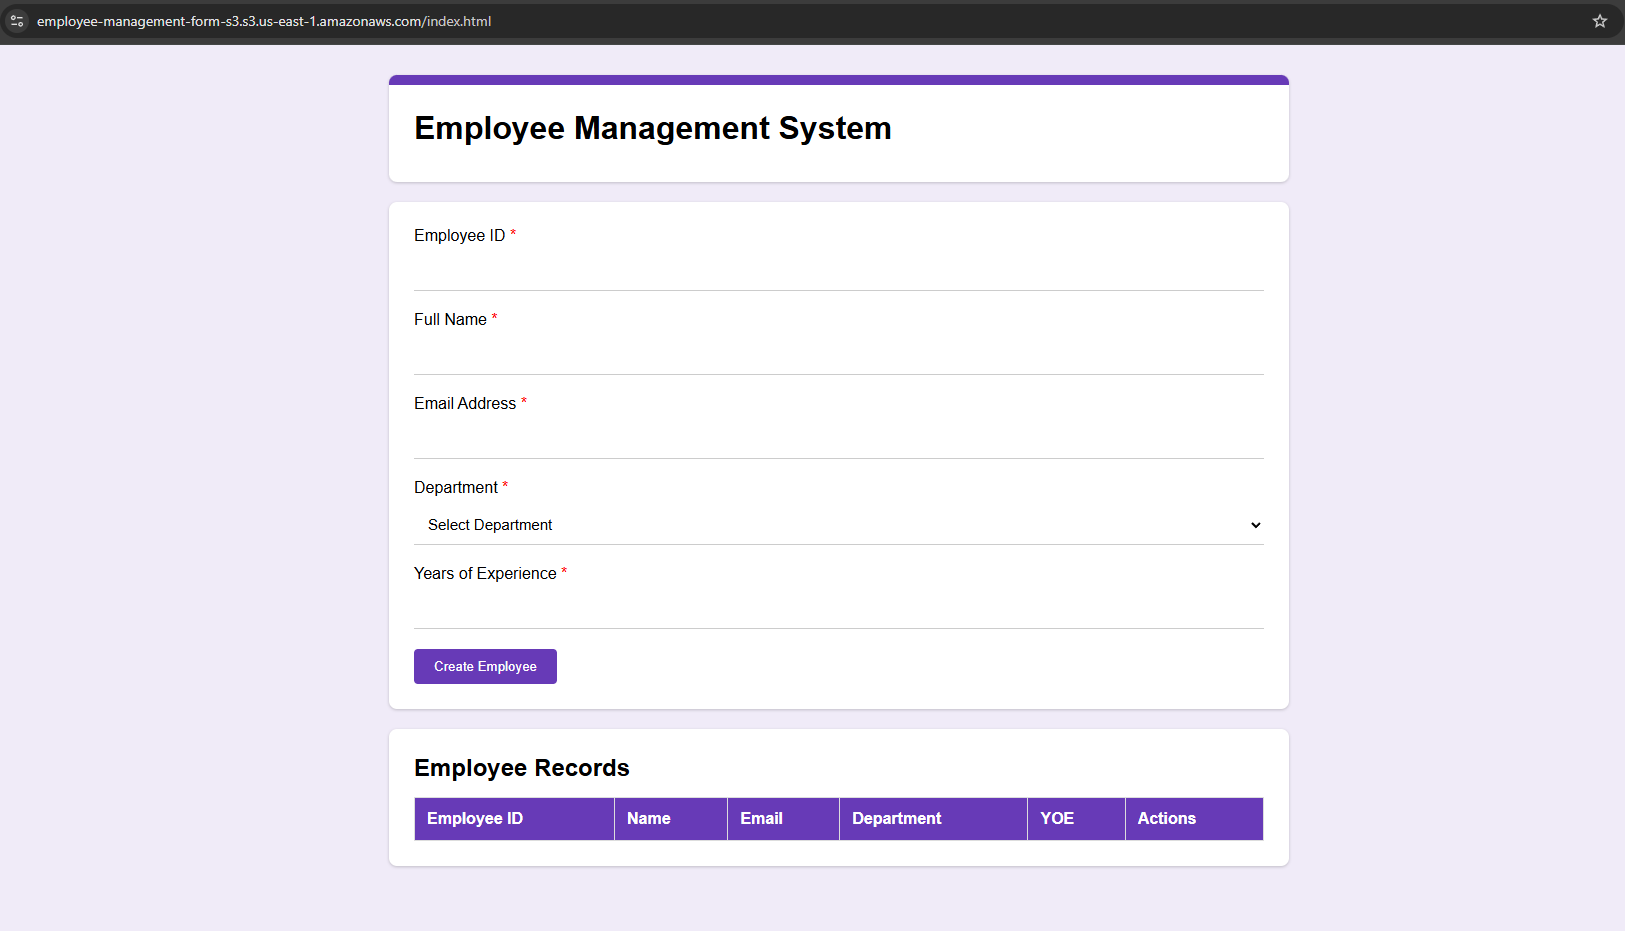
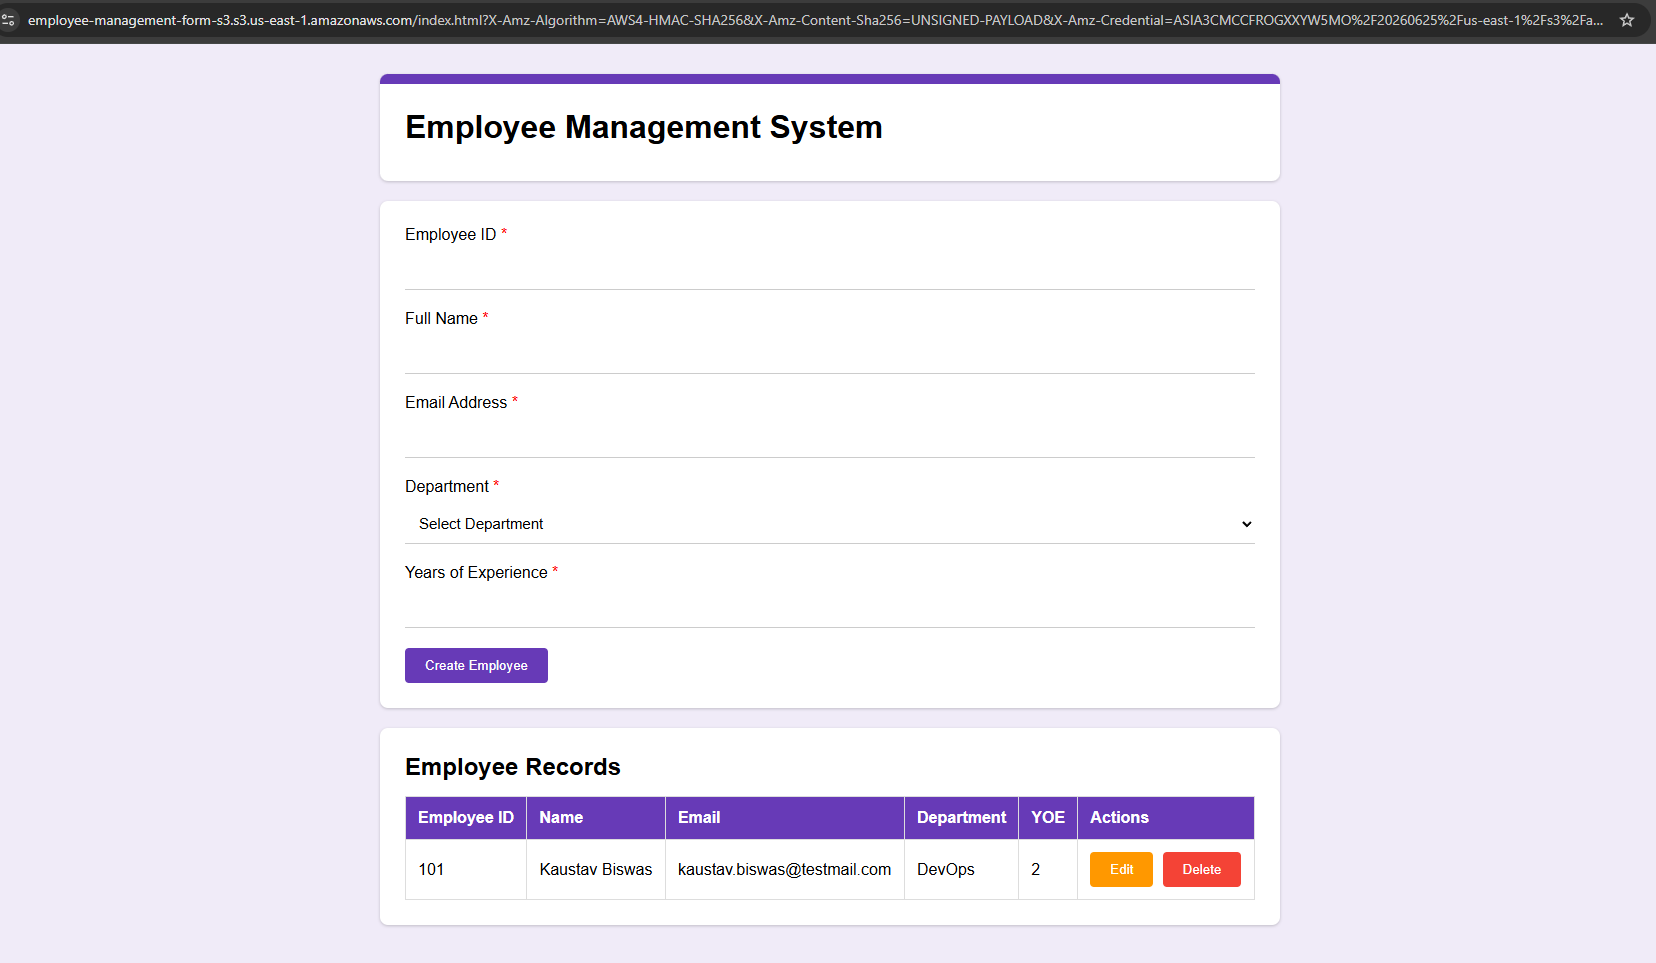
updated api baseurl

diff --git a/index.html b/index.html
@@ -201,7 +201,7 @@ th, td {
 
 <script>
 
-const API_BASE_URL = "https://lv1wjz6xmi.execute-api.us-east-1.amazonaws.com"
+const API_BASE_URL = "https://vkyaqg6754.execute-api.us-east-1.amazonaws.com"
 
 let employees = [];
 let editIndex = null;
